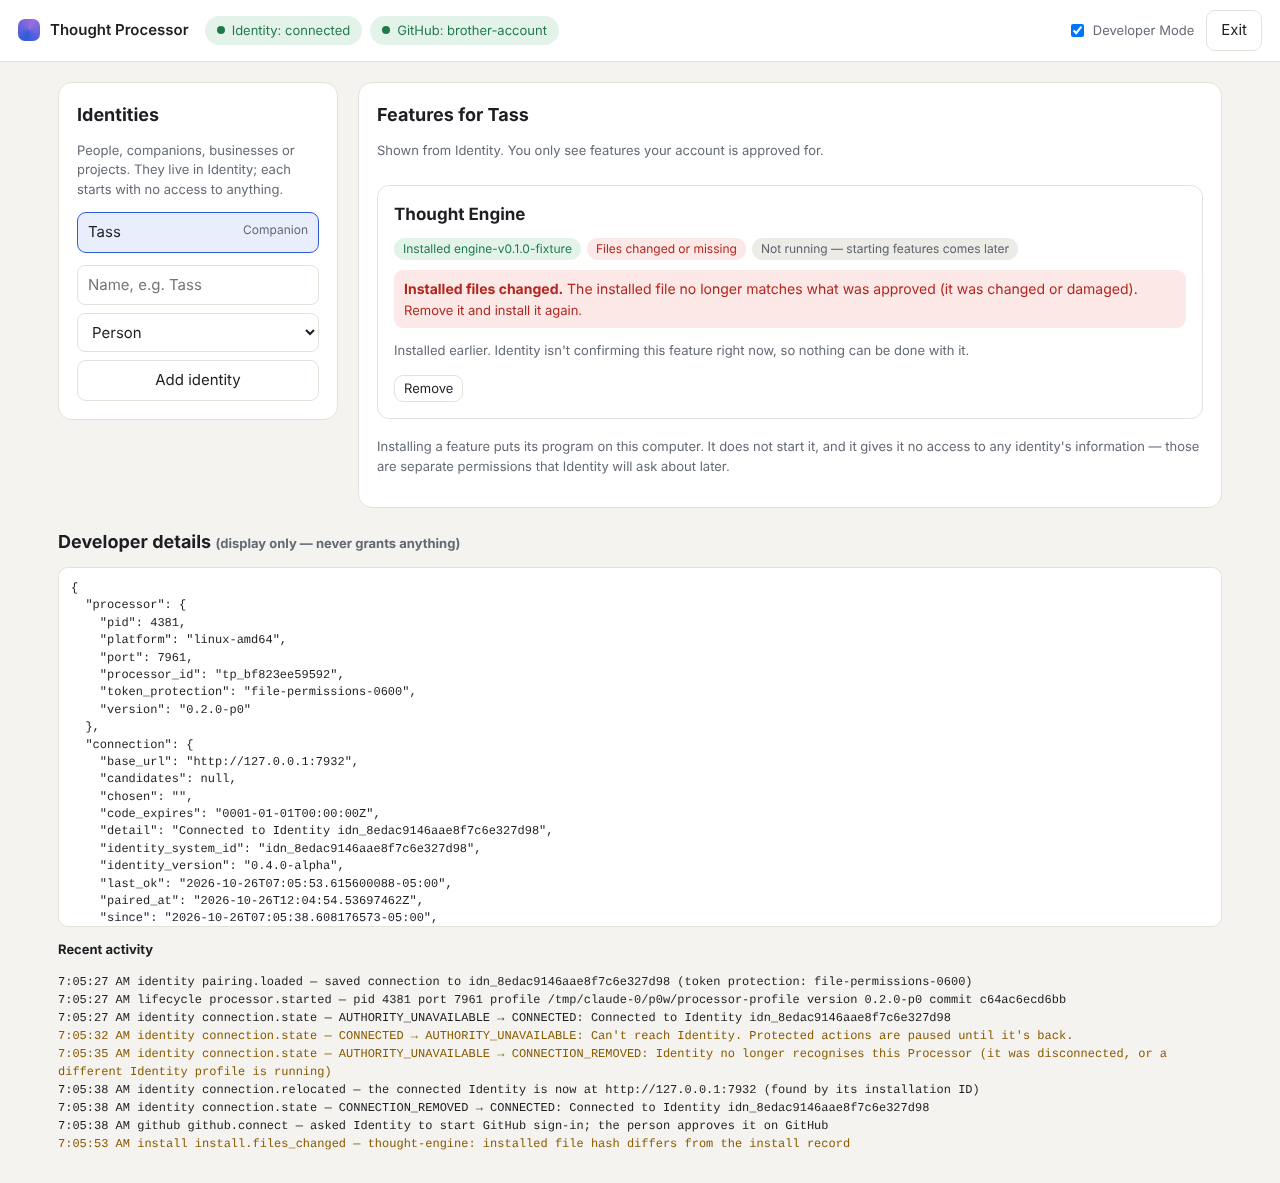
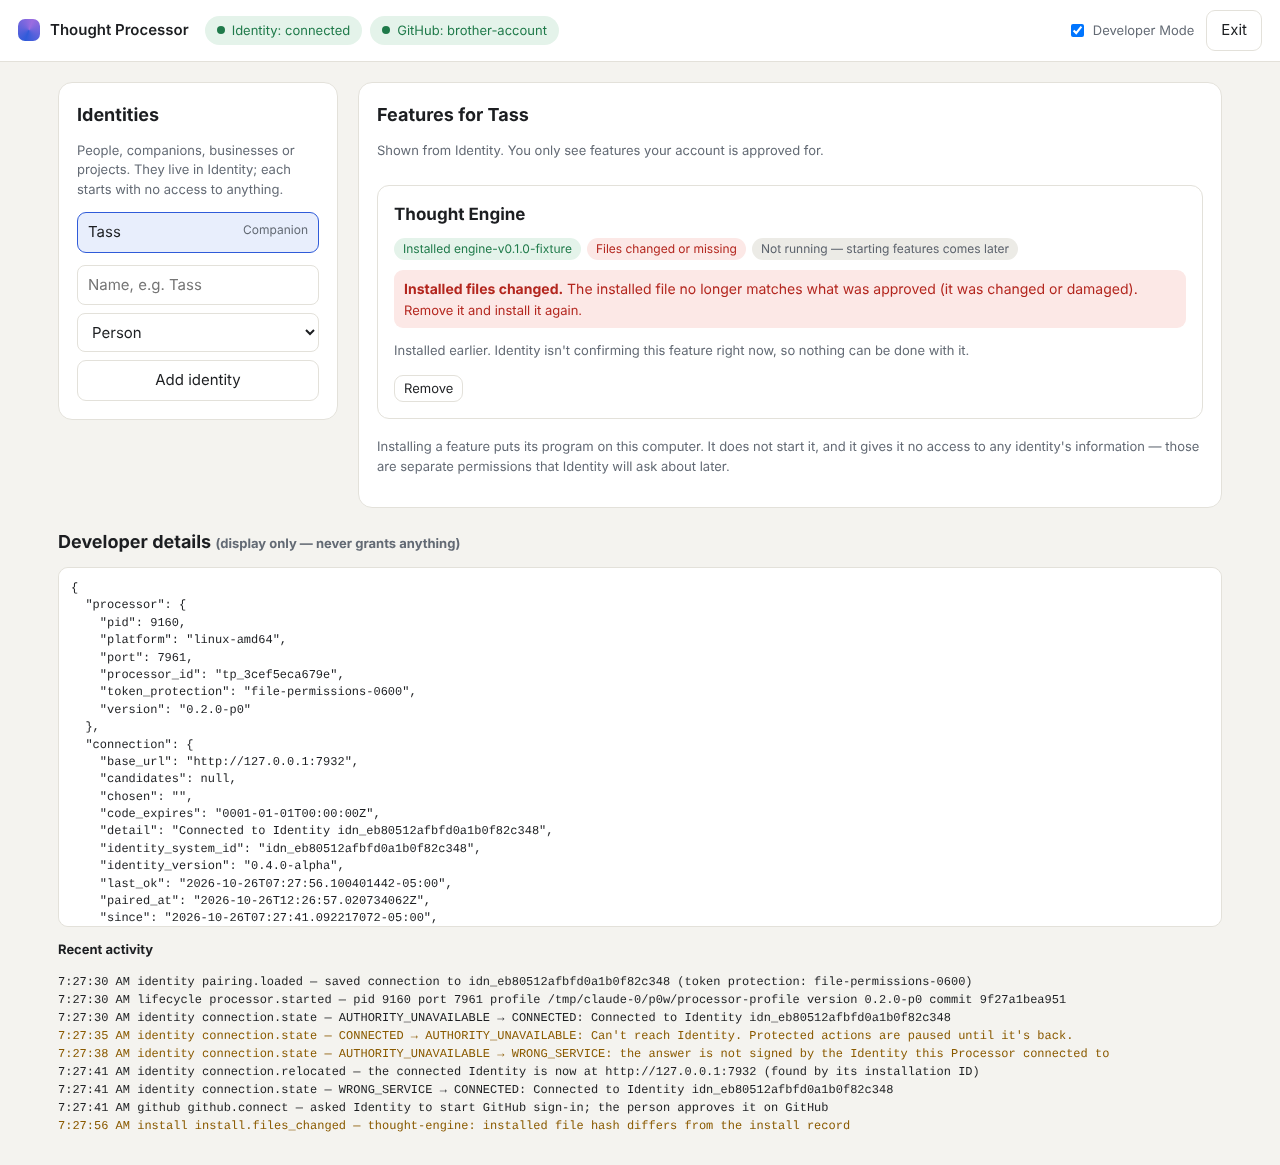
docs: P0 report and evidence at 9f27a1b / identity c8c0a54 (security fix, 28/28)
Claude-Session: https://claude.ai/code/session_01F38fTeGDooKfRuuxJtmvvE

diff --git a/docs/experiments/P0_FEATURE_ONBOARDING_2026-10-26.md b/docs/experiments/P0_FEATURE_ONBOARDING_2026-10-26.md
@@ -6,8 +6,8 @@
 
 | Repo | Branch | Code commit tested | Based on |
 | --- | --- | --- | --- |
-| Arameair/Thought-Processor | `experiment/p0-feature-onboarding-20261026` | `c64ac6e` (this report and the evidence are added in later docs-only commits) | `alpha` @ `9fac9fa` (docs only; the app is new code) |
-| Arameair/identity | `experiment/feature-contract-20261026` | `ce2cbd2` | `alpha-candidate-20261026` @ `dfbb24e` |
+| Arameair/Thought-Processor | `experiment/p0-feature-onboarding-20261026` | **`9f27a1b`** (this report and the evidence are added in later docs-only commits) | `alpha` @ `9fac9fa` (docs only; the app is new code) |
+| Arameair/identity | `experiment/feature-contract-20261026` | **`c8c0a54`** (API `identity/2-alpha`) | `alpha-candidate-20261026` @ `dfbb24e` |
 | Arameair/Thought-engine | none changed | — | Release workflow exists on `experiment/release-workflow-20261026` @ `2baacc7`; **no release published** |
 
 The Windows runbook and acceptance steps are in [`AGENTS.md`](../../AGENTS.md).
@@ -40,6 +40,34 @@ The Windows runbook and acceptance steps are in [`AGENTS.md`](../../AGENTS.md).
 
 ## Results
 
+### Security finding during verification — FIXED
+
+An independent check from fresh clones found a **high-severity flaw** in the Identity API as first written (`identity/1`). Processor sent the pairing secret on every request, and Identity signed its answers with that same secret.
+
+**What an attacker could do:** run a program on Identity's port while Identity was stopped. That program could:
+- collect the secret;
+- show Processor fake data, including a fake release and SHA-256 in the approval dialog;
+- reuse the secret against the real Identity.
+
+The checker demonstrated this with a 40-line impostor.
+
+**Fix (`identity/2`, Identity `c8c0a54` + Processor `9f27a1b`):**
+- After pairing, the secret is never sent again.
+- Each request carries a one-time signature over the method, path, time, a fresh nonce and the body. Identity refuses a time more than 60 s off and any reused nonce.
+- Answers are signed with a separate derived key, covering the request's nonce, the status and the body.
+- An impostor now gets nothing reusable and can't produce an answer Processor accepts.
+
+**Proof:**
+- Unit tests cover an impostor signing with everything it can observe, status swaps, replay, tampering, stale time and a wrong secret.
+- Integration scenario 11b: an impostor on Identity's real port leaves Processor at *WRONG_SERVICE*, actions are refused, and the secret never reaches the impostor.
+
+Pairings made with `identity/1` must connect again. **The Oct 26 Identity alpha candidate (`alpha-candidate-20261026`) still speaks `identity/1`. It carries a warning and should not be built on.**
+
+The same check led to three smaller fixes:
+- Install tag and file names can no longer contain `.` or `..`, and the final path must stay in the feature folder.
+- Feature ids are validated on every route.
+- Identity's status no longer names a hidden private feature.
+
 ### Automated tests (Linux developer container, Go 1.24, race detector)
 
 | Suite | Result | Evidence |
@@ -52,7 +80,7 @@ The Windows runbook and acceptance steps are in [`AGENTS.md`](../../AGENTS.md).
 
 ### Integration: real processes, headless browser, GitHub as a labelled TEST FIXTURE
 
-The test runs the real Thought Processor and real Identity programs. A headless browser clicks through Processor's own page, and faults are injected through the fixture. **26/26 PASS**: [report](p0-evidence-20261026/p0-integration-report.txt).
+The test runs the real Thought Processor and real Identity programs. A headless browser clicks through Processor's own page, and faults are injected through the fixture. **28/28 PASS** at the final commits: [report](p0-evidence-20261026/p0-integration-report.txt).
 
 | # | Scenario | Result |
 | --- | --- | --- |
@@ -67,6 +95,7 @@ The test runs the real Thought Processor and real Identity programs. A headless 
 | 9 | Person approves in the dialog → installed; file on disk matches the approved SHA-256; the record keeps the source | PASS |
 | 10 | Exit → Keep running; Processor restarts and reconnects with no code; install re-verified | PASS |
 | 11 | Identity stopped → AUTHORITY UNAVAILABLE banner; install and create refused (503); installed feature still shown | PASS |
+| 11b | An **impostor** program on Identity's port is not trusted (WRONG_SERVICE), actions are refused, and it never receives the pairing secret | PASS |
 | 12 | A different Identity installation on the same port is not trusted | PASS |
 | 13 | The paired Identity on a new port is found again by installation ID | PASS |
 | 14 | After the Identity restart (GitHub signed out) the private feature is hidden while the local install is still shown; another account never sees it | PASS |
@@ -91,7 +120,9 @@ Screenshots of these steps are in [p0-evidence-20261026/](p0-evidence-20261026/)
 
 ## Security notes
 
-- Every Identity answer is verified: an HMAC over the exact body with a fresh nonce, plus the installation ID.
+- **The pairing secret never leaves Processor after pairing** (`identity/2`).
+  - Every request is signed: method, path, time, a fresh nonce and the body hash.
+  - Every answer is verified with a separate response key, over the nonce, status and exact body, plus the installation ID.
   - Unsigned or mismatched answers become *WRONG_SERVICE*; 401 becomes *CONNECTION_REMOVED*.
   - Protected actions ask Identity again at that moment. There are no cached allows.
 - The page needs this run's private link (session cookie plus CSRF token, Origin and Host checks). The link is stripped from the address bar after use.
@@ -120,6 +151,7 @@ Screenshots of these steps are in [p0-evidence-20261026/](p0-evidence-20261026/)
 - The installer is driven only by the feature contract, so a second feature needs a contract entry in Identity, not Processor code.
 - Every protected step fails closed.
 - Everything that can be tested without a real release and without Windows passes, including the failure cases.
+- The independent security check found one serious design flaw. It is fixed at the API level and covered by tests, including an impostor run against the real programs.
 
 **Before calling it an Alpha candidate:**
 1. Run AGENTS.md on Windows.
